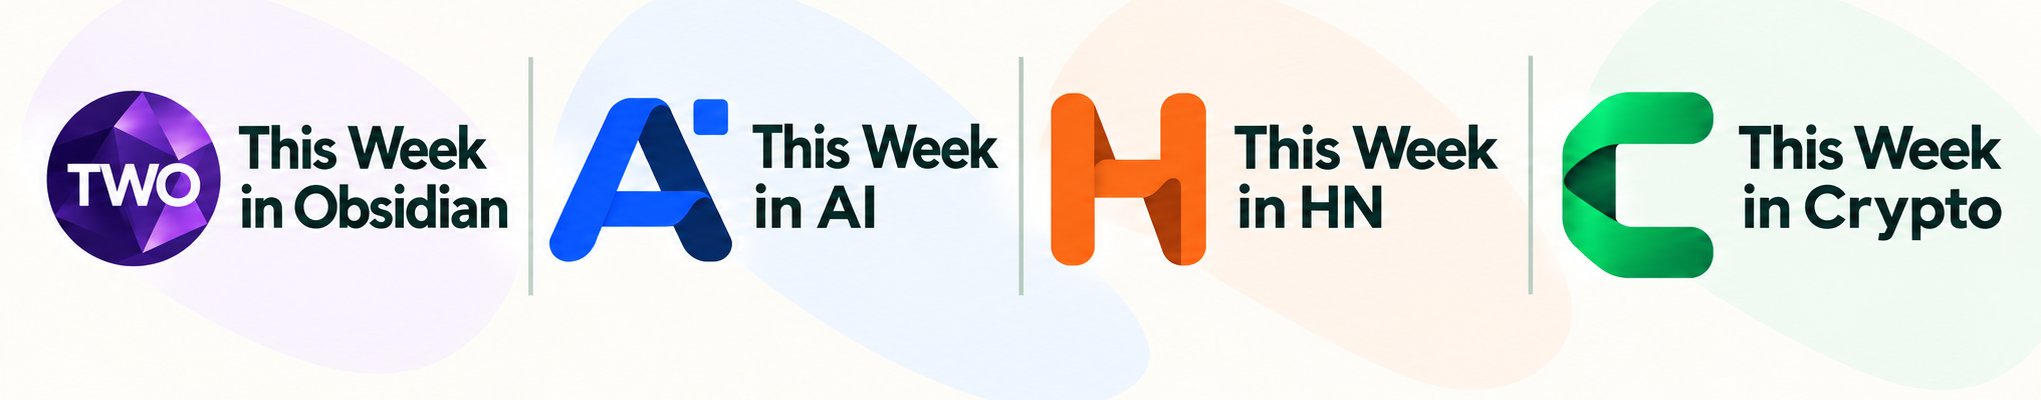
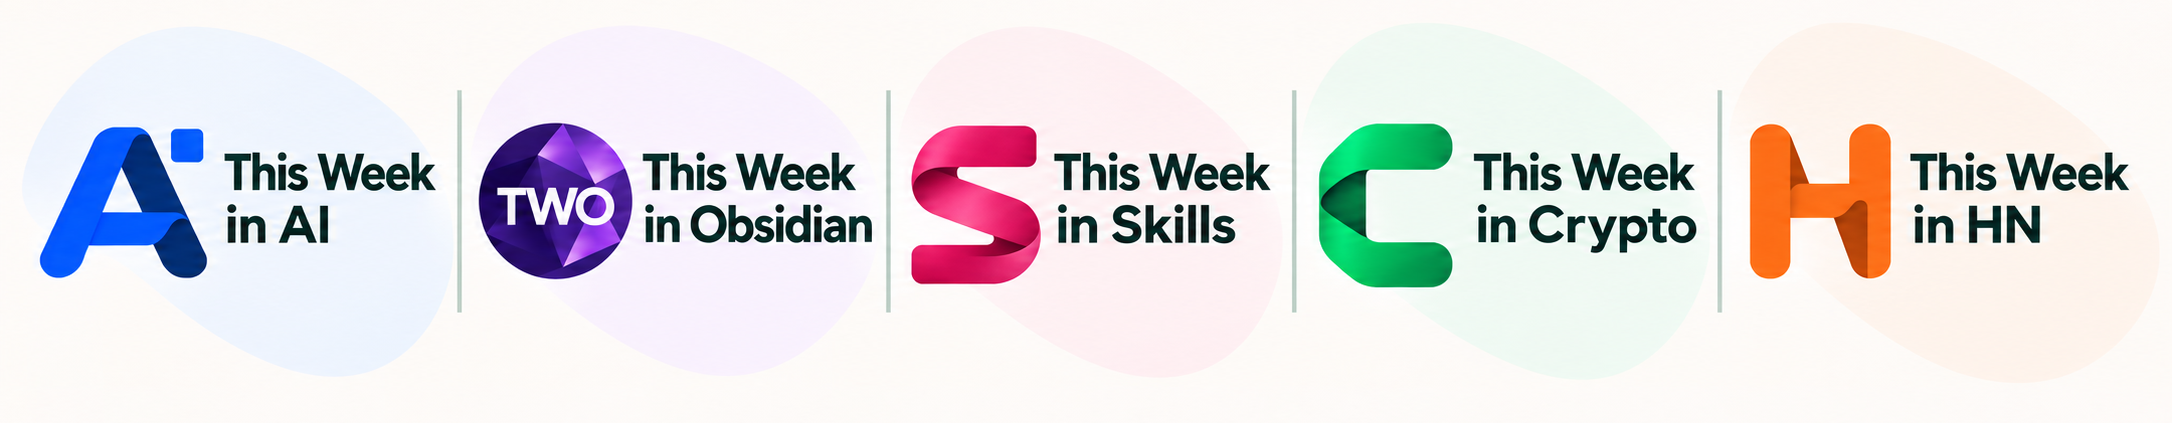
feat: add Skills newsletter branding and refresh shared Substack headers to keep the five publication identities consistent

Changed region(s): [[0.0, 0.21, 0.9878, 0.72]]

diff --git a/assets/substack/README.md b/assets/substack/README.md
@@ -1,11 +1,15 @@
 # Shared Substack header
 
-The active header contains four equally sized publication groups: Obsidian, AI, HN and Crypto. The separate family-title block is omitted so the publication logos and names have more room.
+The active header contains five publication groups in weekday order: AI, Obsidian, Skills, Crypto and HN. The separate family-title block is omitted so the publication logos and names have more room.
 
 ## Files
 
-- `series-header.png`: final 2041 × 400 upload, cropped in Substack's image editor and downloaded after saving.
-- `series-header-master.png`: native imagegen output for the four-publication design, created on 2026-10-30.
+- `series-header.png`: final 2172 × 423 five-publication upload, cropped in Substack's image editor and downloaded after saving on 2026-11-04.
+- `series-header-five-master.png`: native imagegen output for the five-publication design.
+- `skills-logo.png`: 1254 × 1254 raspberry folded S publication logo.
+- `generation-prompts-2026-11-04.json`: exact built-in imagegen prompts and input references for the Skills logo and five-publication header.
+- `series-header-before-skills.png`: previous four-publication upload, retained for rollback.
+- `series-header-master.png`: previous native imagegen output for the four-publication design, created on 2026-10-30.
 - `series-header-with-family-title.png`: previous five-group layout, retained for rollback.
 - `series-header-before-crypto.png`: earlier three-publication layout.
 
@@ -13,17 +17,20 @@ Upload the final image rather than the padded native master. The account editor 
 
 ## Saved placements
 
-The same final image is used in these five locations:
+The same final image is used in the account profile and all five website headers:
 
 - [Account profile branding](https://substack.com/profile/edit): Header image.
 - [Obsidian website editor](https://thisweekinobsidian.substack.com/publish/website-editor/home): Header → Wordmark.
 - [AI website editor](https://thatweekinai.substack.com/publish/website-editor/home): Header → Wordmark.
+- [Skills website editor](https://thisweekinskills.substack.com/publish/website-editor/home): Header → Wordmark.
 - [HN website editor](https://thisweekinhn.substack.com/publish/website-editor/home): Header → Wordmark.
 - [Crypto website editor](https://thatweekincrypto.substack.com/publish/website-editor/home): Header → Wordmark.
 
-The four website headers use Size **84**, increased from 67 alongside the simpler layout. Individual publication logos remain separate from the shared wordmark. Save each website editor, reopen its public page and confirm all four names and marks remain visible.
+The five website headers use Size **84**. Individual publication logos remain separate from the shared wordmark. Save each website editor, reopen its public page and confirm all five names and marks remain visible.
 
-## Generation prompt
+The image is also used as the email Banner image in Settings → Emails → Email header & footer for all five publications. Each publication's text header states its own topic and publication day; each footer links to the other four newsletters in weekday order. Skills publishes Wednesday, between Obsidian on Tuesday and Crypto on Thursday.
+
+## Previous four-publication generation prompt
 
 Generated with the built-in imagegen tool using the previous shared header as the edit target. The exact prompt follows.
 
